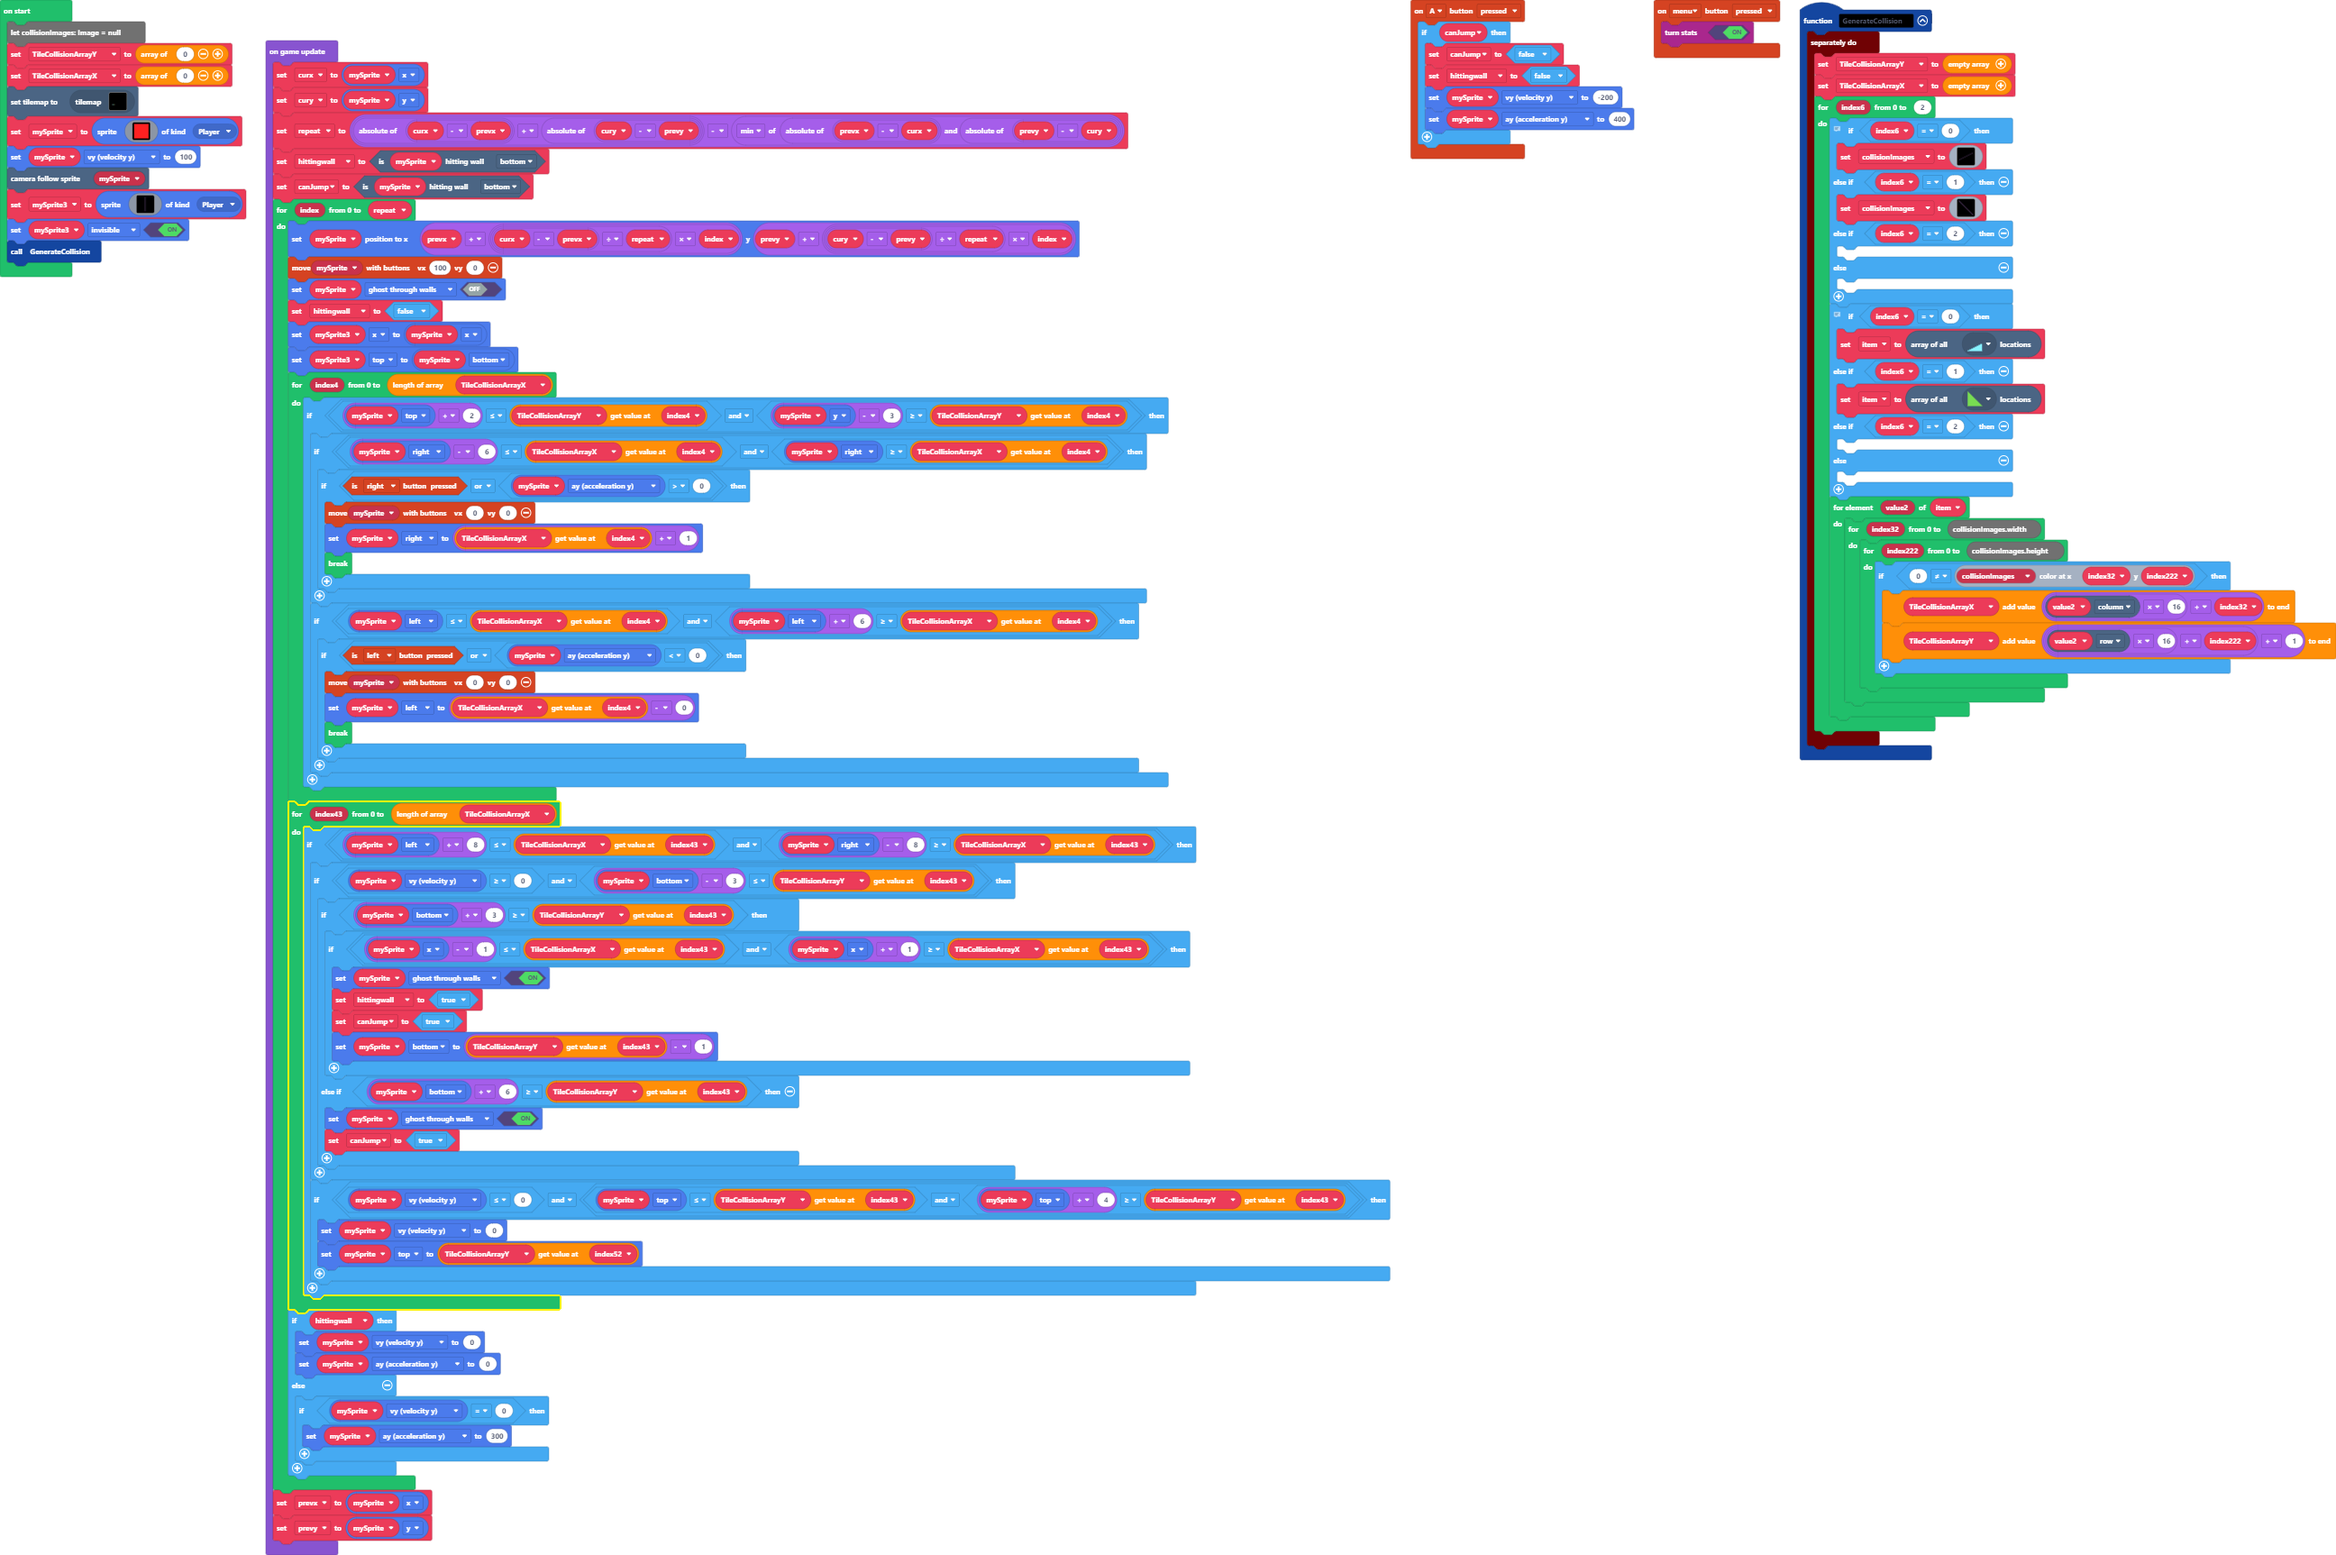
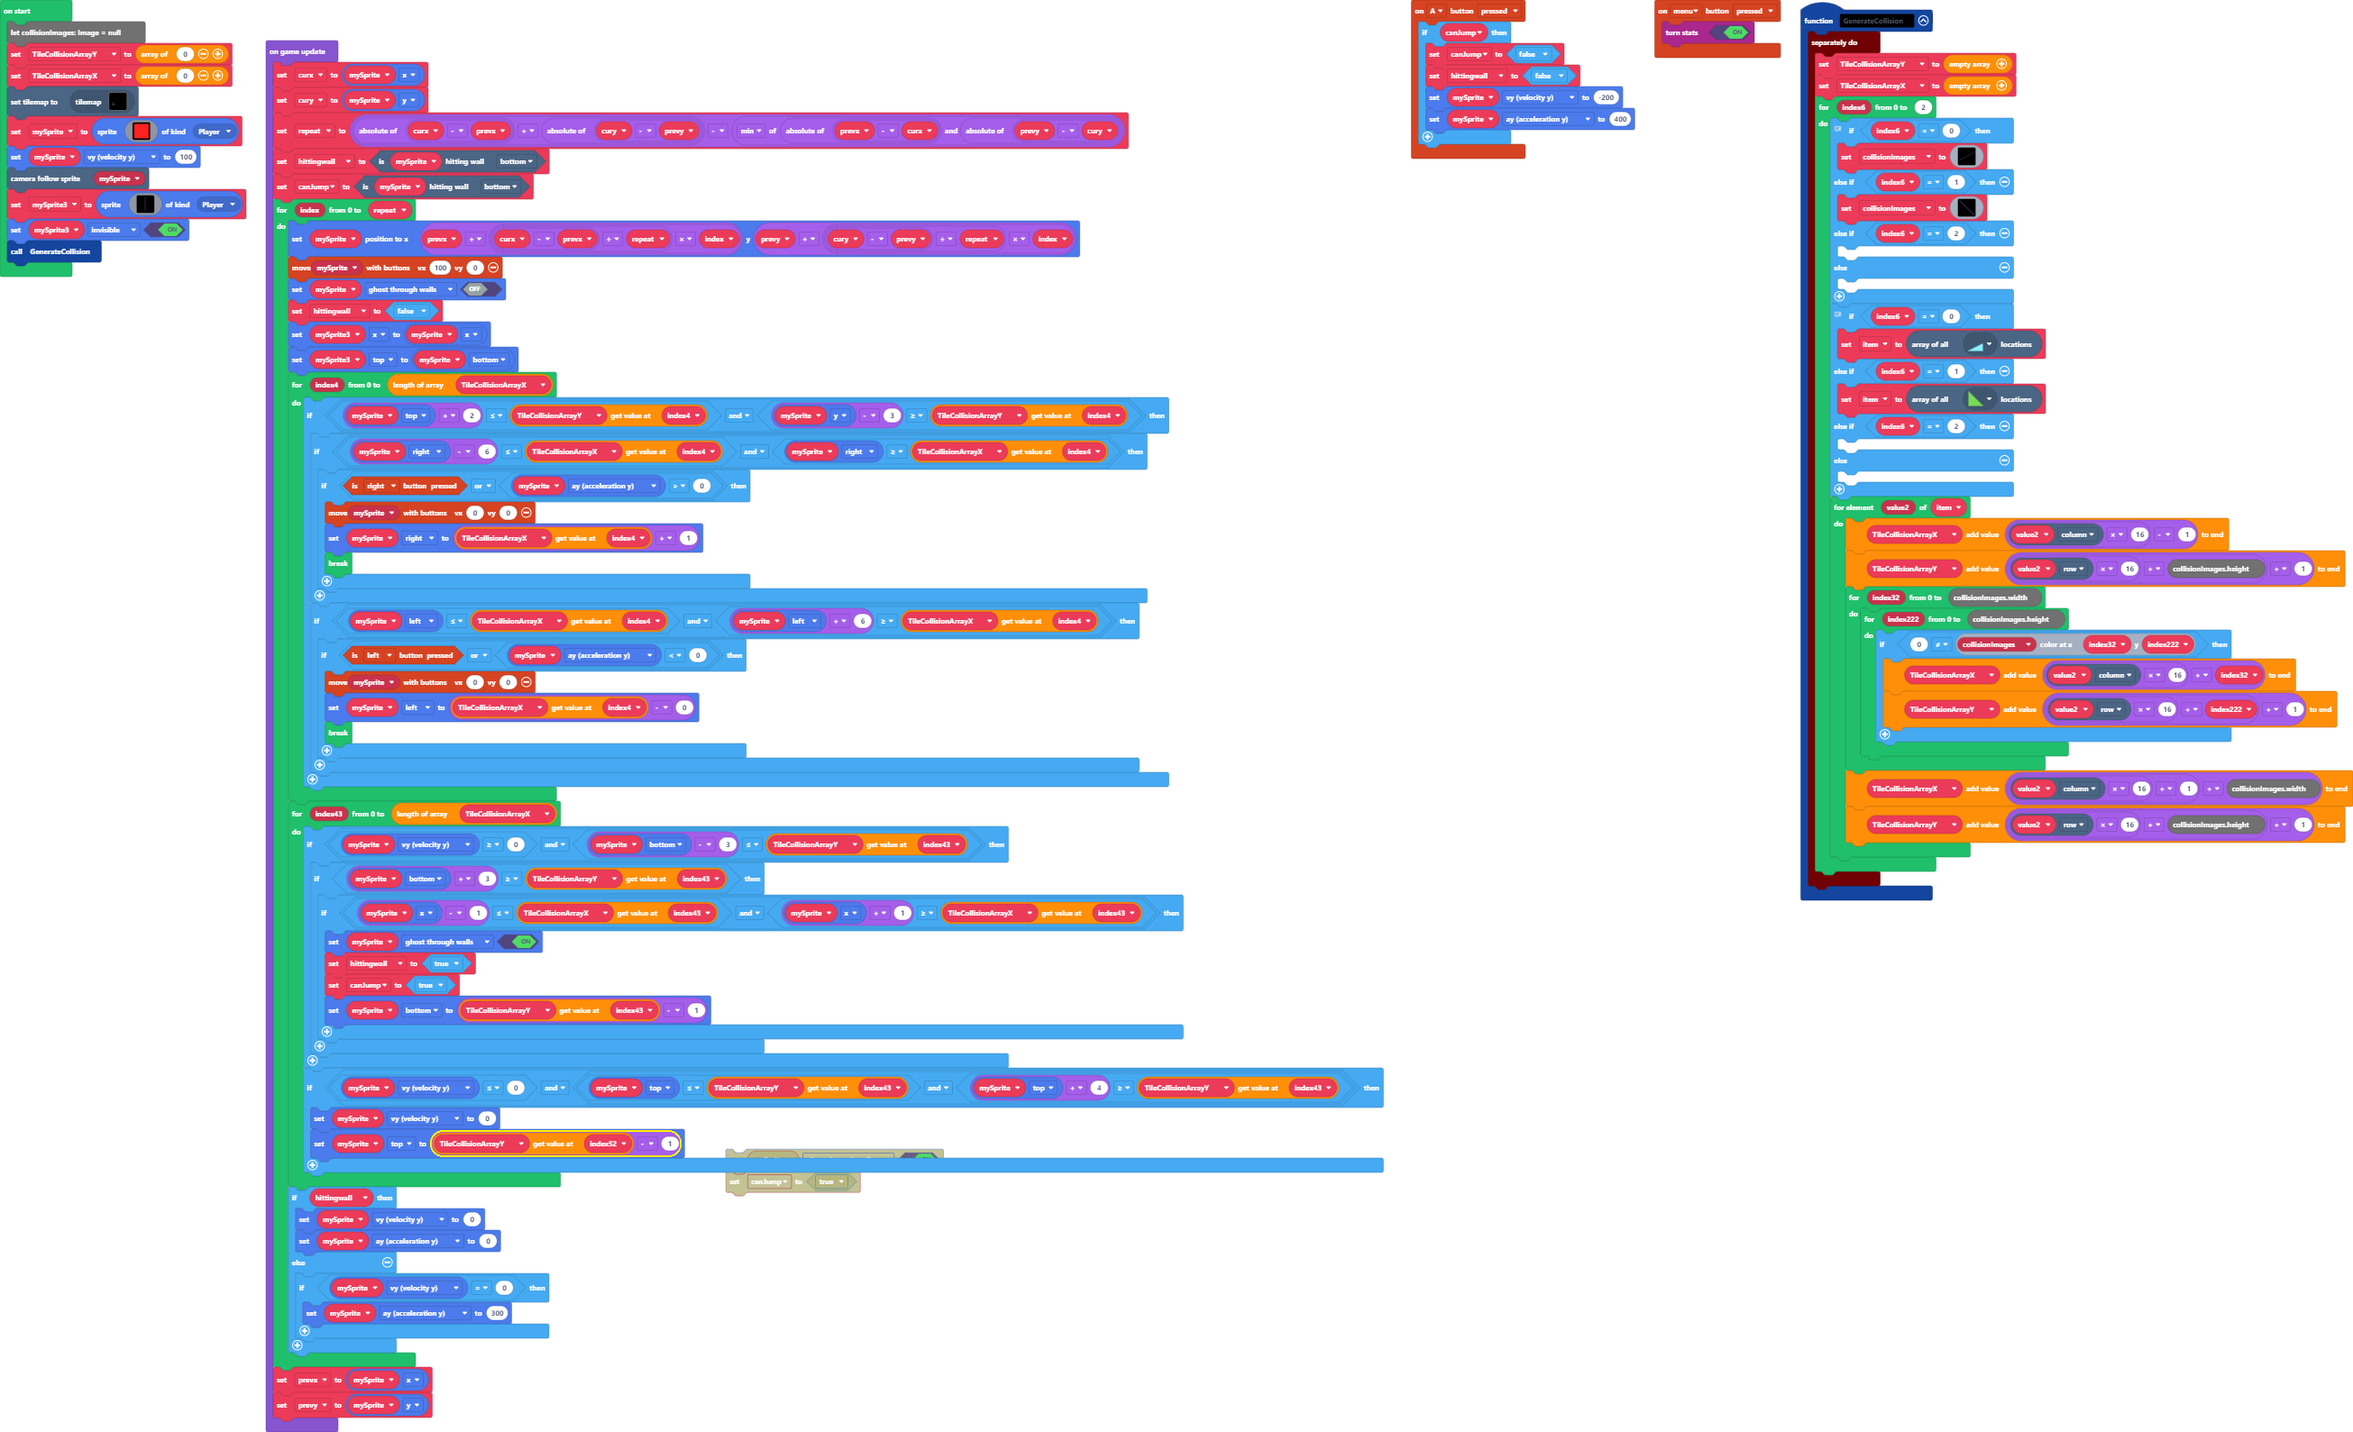
Update pxt.json, main.blocks, main.ts, tilemap.g.jres, tilemap.g.ts

Changed region(s): [[0.0, 0.0, 0.5938, 1.0], [0.5938, 0.0, 1.0, 0.6476]]

diff --git a/tilemap.g.ts b/tilemap.g.ts
@@ -131,25 +131,6 @@ namespace myTiles {
 . . . . . . . . . . . . . . . . 
 . . . . . . . . . . . . . . . . 
 `, [myTiles.transparency16], TileScale.Sixteen);
-            case "level2":
-            case "level2":return tiles.createTilemap(hex`200010000000000000000000000000000000000000000000000000000000000000000000000000000000000000000000000000000000000000000000000000000000000000000000000000000000000000000000000000000000000000000000000000000000000000000000000000000000000000000000000000000000000000000000000000000000000000000000000000000000000000000000000000000000000000000000000000000000000000000000000000000000000000000000000000000000000000000000000000000000000000000000000000000000000000000000000000000000000000000000000000000000000000000000000000000000000000000000000000000000000000000000000000000000000000000000000000000000000000000000000000000000000000000000000000000000000000000000000000000000000000000000000000000000000000000000000000000000000000000000000000000000000000000000000000000000000000000000000000000000000000000000000000000000000000000000000000000000000000000000000000000000000000000000000000000000000000000000000000000000000000000000010203040000000000000000000000000000000000000000000000000000000300000000030000000000000000000000000000000000000000000000`, img`
-................................
-................................
-................................
-................................
-................................
-................................
-................................
-................................
-................................
-................................
-................................
-................................
-................................
-................................
-......2.........................
-...2....2.......................
-`, [myTiles.transparency16,myTiles.tile15,myTiles.tile3,sprites.castle.tilePath2,myTiles.tile1], TileScale.Sixteen);
             case "level7":
             case "level7":return tiles.createTilemap(hex`1000100000000000000000000000000000000000000000000000000000000000000000000000000000000000000000000000000000000000000000000000000000000000000000000000000000000000000000000000000000000000000000000000000000000000000000000000000000000000000000000000000000000000000000000000000000000000000000000000000000000000000000000000000000000000000000000000000000000000000000000000000000000000000000000000000000000000000000000000000000000000000000000000000000000000000000000000000000000000000000000000000000000000000000000000000000000000`, img`
 . . . . . . . . . . . . . . . . 
@@ -169,6 +150,44 @@ namespace myTiles {
 . . . . . . . . . . . . . . . . 
 . . . . . . . . . . . . . . . . 
 `, [myTiles.transparency16], TileScale.Sixteen);
+            case "level8":
+            case "level8":return tiles.createTilemap(hex`1000100000000000000000000000000000000000000000000000000000000000000000000000000000000000000000000000000000000000000000000000000000000000000000000000000000000000000000000000000000000000000000000000000000000000000000000000000000000000000000000000000000000000000000000000000000000000000000000000000000000000000000000000000000000000000000000000000000000000000000000000000000000000000000000000000000000000000000000000000000000000000000000000000000000000000000000000000000000000000000000000000000000000000000000000000000000000`, img`
+. . . . . . . . . . . . . . . . 
+. . . . . . . . . . . . . . . . 
+. . . . . . . . . . . . . . . . 
+. . . . . . . . . . . . . . . . 
+. . . . . . . . . . . . . . . . 
+. . . . . . . . . . . . . . . . 
+. . . . . . . . . . . . . . . . 
+. . . . . . . . . . . . . . . . 
+. . . . . . . . . . . . . . . . 
+. . . . . . . . . . . . . . . . 
+. . . . . . . . . . . . . . . . 
+. . . . . . . . . . . . . . . . 
+. . . . . . . . . . . . . . . . 
+. . . . . . . . . . . . . . . . 
+. . . . . . . . . . . . . . . . 
+. . . . . . . . . . . . . . . . 
+`, [myTiles.transparency16], TileScale.Sixteen);
+            case "level2":
+            case "level2":return tiles.createTilemap(hex`200010000000000000000000000000000000000000000000000000000000000000000000000000000000000000000000000000000000000000000000000000000000000000000000000000000000000000000000000000000000000000000000000000000000000000000000000000000000000000000000000000000000000000000000000000000000000000000000000000000000000000000000000000000000000000000000000000000000000000000000000000000000000000000000000000000000000000000000000000000000000000000000000000000000000000000000000000000000000000000000000000000000000000000000000000000000000000000000000000000000000000000000000000000000000000000000000000000000000000000000000000000000000000000000000000000000000000000000000000000000000000000000000000000000000000000000000000000000000000000000010200000000000000000000000000000000000000000000000000000000000000000000000000000000000000000000000000000000000000000000000000000000000000000000000000000000000000000000000000000000000000000000010203040000000000000000000000000000000000000000000000000000000300000000030000000000000000000000000000000000000000000000`, img`
+................................
+................................
+................................
+................................
+................................
+................................
+................................
+................................
+................................
+................................
+................................
+................................
+................................
+................................
+......2.........................
+...2....2.......................
+`, [myTiles.transparency16,myTiles.tile15,myTiles.tile3,sprites.castle.tilePath2,myTiles.tile1], TileScale.Sixteen);
         }
         return null;
     })

diff --git a/main.ts b/main.ts
@@ -69,6 +69,8 @@ function GenerateCollision () {
             	
             }
             for (let value2 of item) {
+                TileCollisionArrayX.push(value2.column * 16 - 1)
+                TileCollisionArrayY.push(value2.row * 16 + collisionImages.height + 1)
                 for (let index32 = 0; index32 <= collisionImages.width; index32++) {
                     for (let index222 = 0; index222 <= collisionImages.height; index222++) {
                         if (0 != collisionImages.getPixel(index32, index222)) {
@@ -77,6 +79,8 @@ function GenerateCollision () {
                         }
                     }
                 }
+                TileCollisionArrayX.push(value2.column * 16 + 1 + collisionImages.width)
+                TileCollisionArrayY.push(value2.row * 16 + collisionImages.height + 1)
             }
         }
     })
@@ -195,25 +199,20 @@ game.onUpdate(function () {
             }
         }
         for (let index43 = 0; index43 <= TileCollisionArrayX.length; index43++) {
-            if (mySprite.left + 8 <= TileCollisionArrayX[index43] && mySprite.right - 8 >= TileCollisionArrayX[index43]) {
-                if (mySprite.vy >= 0 && mySprite.bottom - 3 <= TileCollisionArrayY[index43]) {
-                    if (mySprite.bottom + 3 >= TileCollisionArrayY[index43]) {
-                        if (mySprite.x - 1 <= TileCollisionArrayX[index43] && mySprite.x + 1 >= TileCollisionArrayX[index43]) {
-                            mySprite.setFlag(SpriteFlag.GhostThroughWalls, true)
-                            hittingwall = true
-                            canJump = true
-                            mySprite.bottom = TileCollisionArrayY[index43] - 1
-                        }
-                    } else if (mySprite.bottom + 6 >= TileCollisionArrayY[index43]) {
+            if (mySprite.vy >= 0 && mySprite.bottom - 3 <= TileCollisionArrayY[index43]) {
+                if (mySprite.bottom + 3 >= TileCollisionArrayY[index43]) {
+                    if (mySprite.x - 1 <= TileCollisionArrayX[index43] && mySprite.x + 1 >= TileCollisionArrayX[index43]) {
                         mySprite.setFlag(SpriteFlag.GhostThroughWalls, true)
+                        hittingwall = true
                         canJump = true
+                        mySprite.bottom = TileCollisionArrayY[index43] - 1
                     }
                 }
-                if (mySprite.vy <= 0 && (mySprite.top <= TileCollisionArrayY[index43] && mySprite.top + 4 >= TileCollisionArrayY[index43])) {
-                    let index52 = 0
-                    mySprite.vy = 0
-                    mySprite.top = TileCollisionArrayY[index52]
-                }
+            }
+            if (mySprite.vy <= 0 && (mySprite.top <= TileCollisionArrayY[index43] && mySprite.top + 4 >= TileCollisionArrayY[index43])) {
+                let index52 = 0
+                mySprite.vy = 0
+                mySprite.top = TileCollisionArrayY[index52] - 1
             }
         }
         if (hittingwall) {
